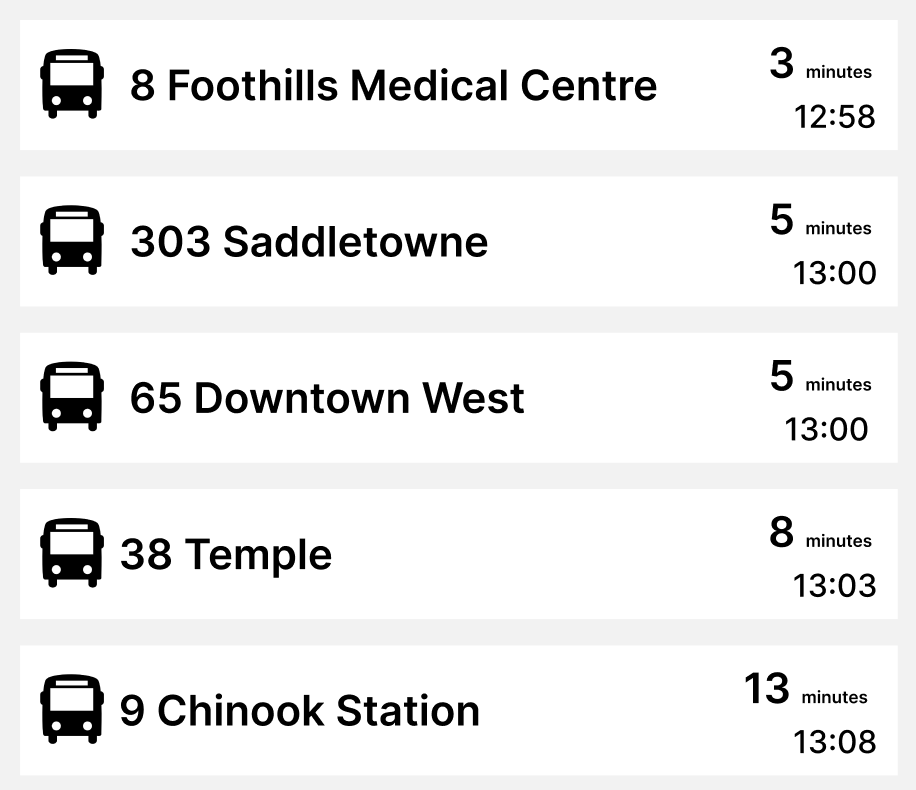
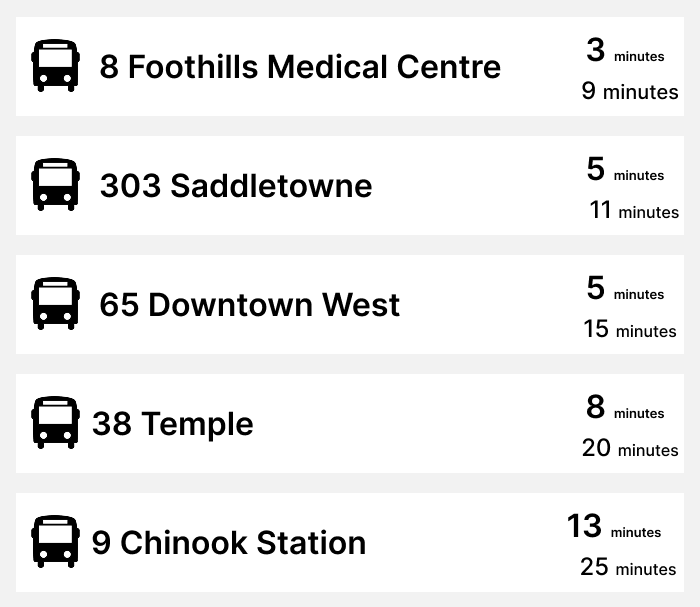
image change

diff --git a/HTML Code/styles.css b/HTML Code/styles.css
@@ -2014,7 +2014,7 @@ body {
 .help-hero {
   width: 100%;
   text-align: center;
-  padding: 30px 0 20px;
+  padding: 10px 0 20px;
   box-sizing: border-box;
 }
 

diff --git a/HTML Code/help_screen.html b/HTML Code/help_screen.html
@@ -54,7 +54,6 @@
 
   <div class="help-hero">
     <h1>Help & Support</h1>
-    <h3>How can we help you today?</h3>
   </div>
 
   <div class="help-layout">
